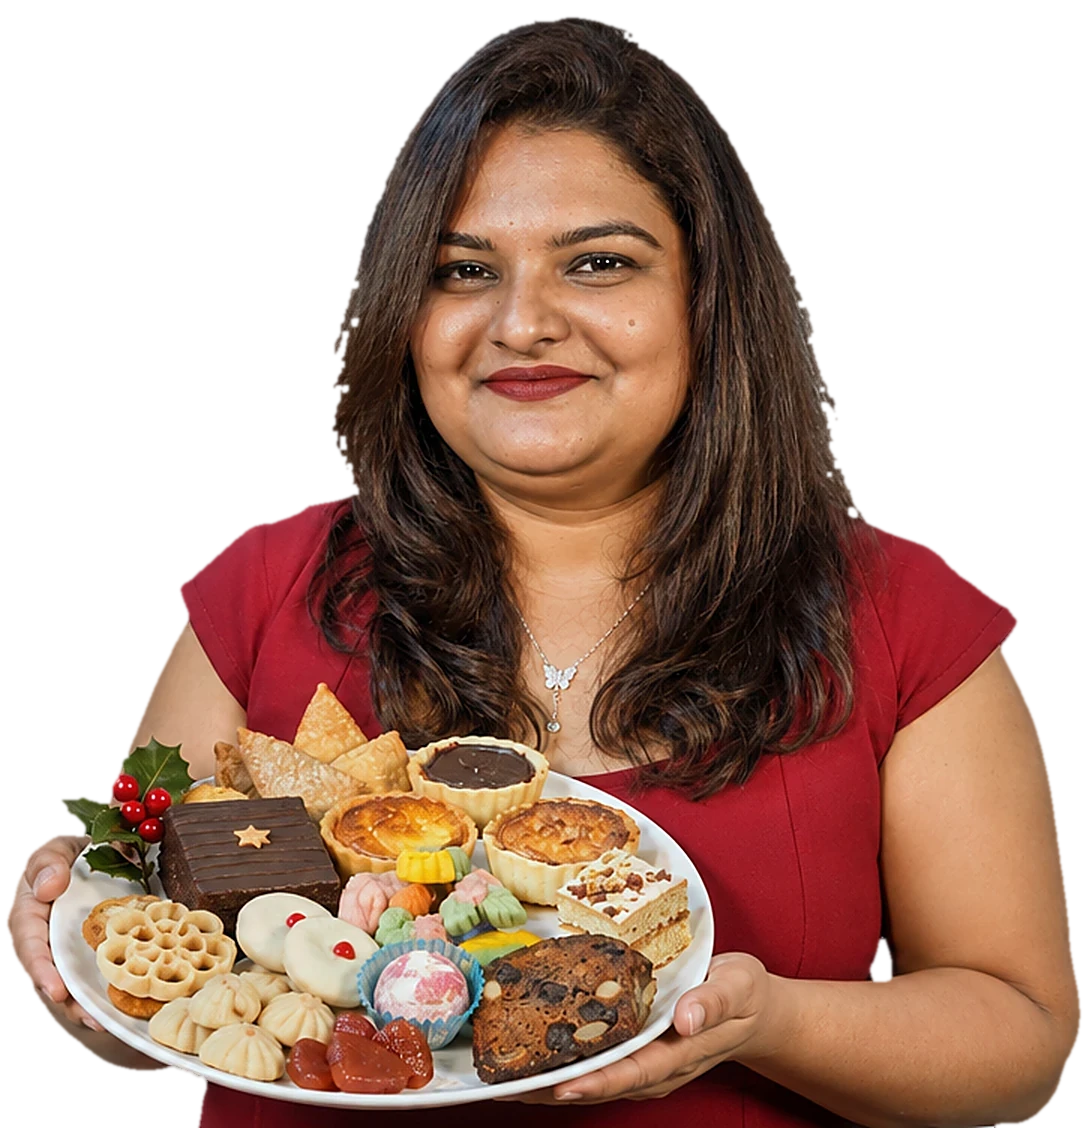
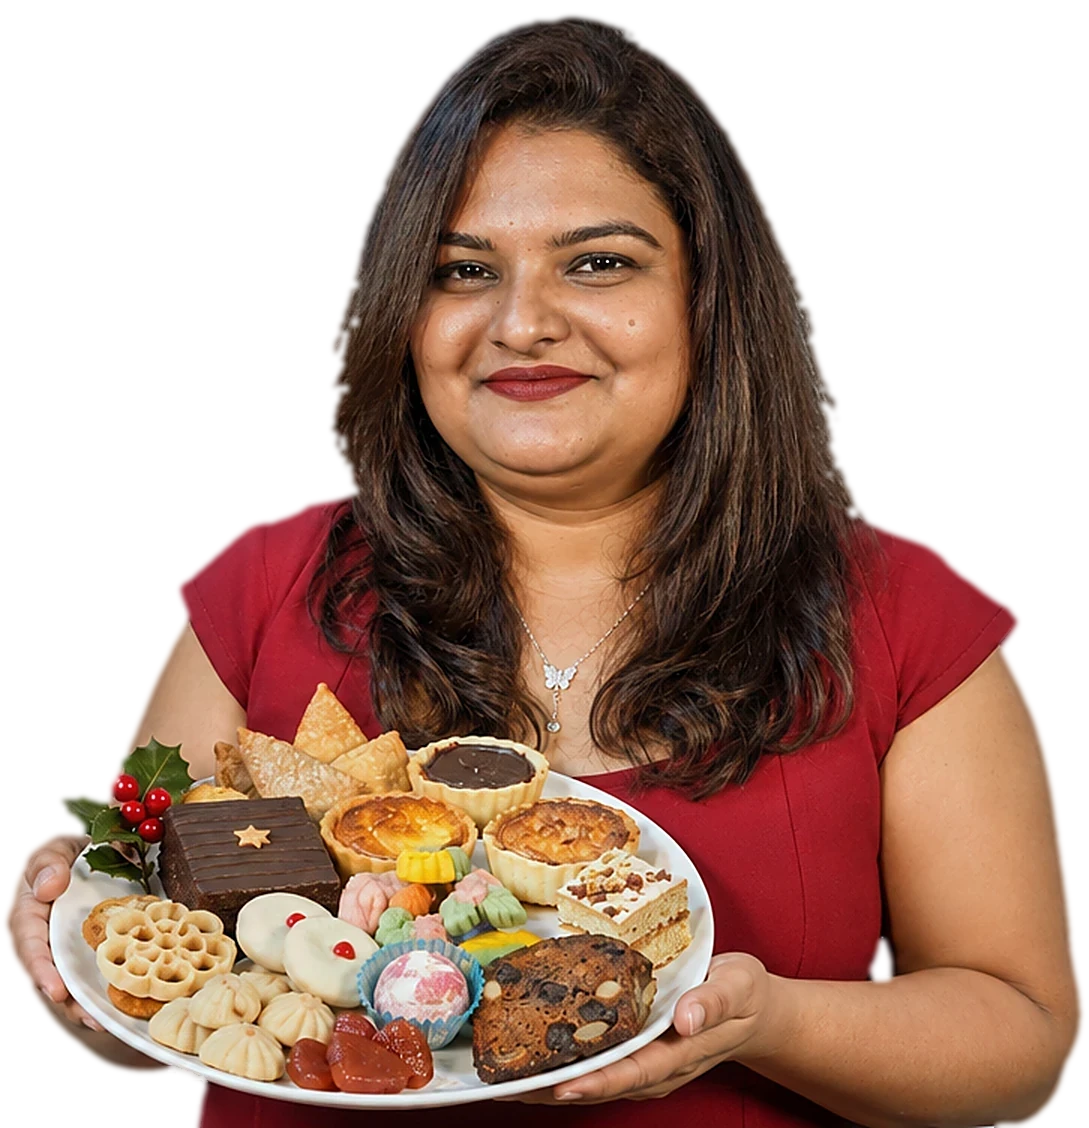
Softer edges on hero cutout

diff --git a/index.html b/index.html
@@ -15,7 +15,7 @@
 <meta name="theme-color" content="#6E1423">
 <link rel="icon" type="image/png" href="img/icon.png">
 <link rel="apple-touch-icon" href="img/icon.png">
-<link rel="preload" as="image" href="img/rebecca_plate.webp?v=3bea4033" fetchpriority="high">
+<link rel="preload" as="image" href="img/rebecca_plate.webp?v=6288cfff" fetchpriority="high">
 <link rel="preconnect" href="https://fonts.googleapis.com">
 <link rel="preconnect" href="https://fonts.gstatic.com" crossorigin>
 <link rel="stylesheet" href="https://fonts.googleapis.com/css2?family=Inter:wght@400;500;600;700;800&family=Playfair+Display:ital,wght@0,600;0,700;0,800;1,700;1,800&display=swap">
@@ -439,7 +439,7 @@ footer small{opacity:.75}
    <svg class="xh-flake" style="right:6%;top:12%;width:22px;color:#D9B77E" viewBox="0 0 24 24"><g stroke="currentColor" stroke-width="1.8" stroke-linecap="round"><path d="M12 2v20M3.3 7l17.4 10M3.3 17L20.7 7"/></g></svg>
    <svg class="xh-flake" style="left:30%;top:6%;width:16px" viewBox="0 0 24 24"><path d="M12 0l2.4 9.6L24 12l-9.6 2.4L12 24l-2.4-9.6L0 12l9.6-2.4z" fill="#D9B77E"/></svg>
    <svg class="xh-flake" style="right:24%;top:4%;width:12px" viewBox="0 0 24 24"><path d="M12 0l2.4 9.6L24 12l-9.6 2.4L12 24l-2.4-9.6L0 12l9.6-2.4z" fill="#F4EFE6"/></svg>
-   <img class="xh-chef" src="img/rebecca_plate.webp?v=3bea4033" width="720" height="752" fetchpriority="high" alt="Chef Rebecca Corda holding a plate of her Christmas sweets">
+   <img class="xh-chef" src="img/rebecca_plate.webp?v=6288cfff" width="720" height="752" fetchpriority="high" alt="Chef Rebecca Corda holding a plate of her Christmas sweets">
    <svg class="xh-holly" style="right:-1%;top:34%;width:84px;transform:rotate(28deg)" viewBox="0 0 100 70" aria-hidden="true"><path d="M50 40 C38 18 18 22 6 10 C14 16 20 6 28 12 C30 2 40 8 44 2 C46 18 58 30 50 40Z" fill="#2E6B4F"/><path d="M50 40 C62 18 82 22 94 10 C86 16 80 6 72 12 C70 2 60 8 56 2 C54 18 42 30 50 40Z" fill="#3F8763"/><circle cx="43" cy="44" r="7" fill="#C8202F"/><circle cx="57" cy="45" r="7" fill="#B3122B"/><circle cx="50" cy="54" r="7" fill="#D4283A"/><circle cx="41" cy="42" r="2" fill="#fff" opacity=".6"/></svg>
    <div class="xh-tag"><span class="xh-ic"><svg width="14" height="14" viewBox="0 0 24 24" fill="none" stroke="#F4EFE6" stroke-width="2" stroke-linecap="round"><path d="M6 13.9A4 4 0 0 1 7 6a5 5 0 0 1 10 0 4 4 0 0 1 1 7.9V21H6z"/><path d="M6 17h12"/></svg></span><span><b>Chef Rebecca Corda</b>Made fresh in her kitchen</span></div>
   </div>
@@ -550,7 +550,7 @@ footer small{opacity:.75}
 <script>
 (function(){
 "use strict";
-var IMG = {"bauble": "img/bauble.webp?v=84ac5e2a", "choctarts": "img/choctarts.webp?v=a0496dfa", "coconutice": "img/coconutice.webp?v=825f6e0c", "coconuttarts": "img/coconuttarts.webp?v=e6c4a260", "cookies_mix": "img/cookies_mix.webp?v=e3e3556e", "cookies_reindeer": "img/cookies_reindeer.webp?v=43ca4ce7", "cookies_tree": "img/cookies_tree.webp?v=f282027b", "guava": "img/guava.webp?v=b4ee02db", "kulkuls": "img/kulkuls.webp?v=13d46411", "logo_color": "img/logo_color.webp?v=d792e80c", "logo_color_whitetext": "img/logo_color_whitetext.webp?v=3e7745c7", "marzipan": "img/marzipan.webp?v=7d690b72", "milkcream": "img/milkcream.webp?v=3c635063", "nevries_rose": "img/nevries_rose.webp?v=d3a0a4ca", "reindeer": "img/reindeer.webp?v=dfce2591", "rumsquare": "img/rumsquare.webp?v=8fed53cc", "sweets_mix": "img/sweets_mix.webp?v=5456ed5c", "bow": "img/bow.webp?v=3344814b", "s_neureos": "img/s_neureos.webp?v=f58e66d0", "s_guava": "img/s_guava.webp?v=69e7bc7c", "p_marzipan": "img/p_marzipan.webp?v=b910f84f", "p_snowflake": "img/p_snowflake.webp?v=baaf44f7", "p_kulkul": "img/p_kulkul.webp?v=a521b335", "s_shank": "img/s_shank.webp?v=4e01757c", "p_cice": "img/p_cice.webp?v=47568056", "p_nankhatai": "img/p_nankhatai.webp?v=35e5ee82", "s_rose": "img/s_rose.webp?v=e475da9b", "p_milkcream": "img/p_milkcream.webp?v=b4cf9032", "p_santa": "img/p_santa.webp?v=351365d1", "p_guava": "img/p_guava.webp?v=48c10615", "p_bombs": "img/p_bombs.webp?v=f5dc288d", "p_neureos": "img/p_neureos.webp?v=83caf044", "s_kulkul": "img/s_kulkul.webp?v=214fe2b4", "s_bombs": "img/s_bombs.webp?v=3568cfed", "s_marzipan": "img/s_marzipan.webp?v=096c3cde", "p_datewal": "img/p_datewal.webp?v=e6025672", "s_datewal": "img/s_datewal.webp?v=48c4ca97", "rebecca_plate": "img/rebecca_plate.webp?v=3bea4033", "s_baath": "img/s_baath.webp?v=5499f3bf", "p_baath": "img/p_baath.webp?v=b31ac2b7", "p_shank": "img/p_shank.webp?v=be270e27", "p_macarons": "img/p_macarons.webp?v=c8511ffd", "p_reindeer": "img/p_reindeer.webp?v=a6073b8f", "chef_smile": "img/chef_smile.webp?v=cdef43e0", "p_tree": "img/p_tree.webp?v=8b1e6e91", "p_ginger": "img/p_ginger.webp?v=af2b651a", "s_cice": "img/s_cice.webp?v=ed635c3d", "p_rumcake": "img/p_rumcake.webp?v=50a5fcb5", "p_rose": "img/p_rose.webp?v=c6c130df", "chef_table": "img/chef_table.webp?v=efad1b4a", "p_cotart": "img/p_cotart.webp?v=0e6318df", "chef_face": "img/chef_face.webp?v=04d43a50", "s_milkcream": "img/s_milkcream.webp?v=458933fc", "s_nankhatai": "img/s_nankhatai.webp?v=1387287b"};
+var IMG = {"bauble": "img/bauble.webp?v=84ac5e2a", "choctarts": "img/choctarts.webp?v=a0496dfa", "coconutice": "img/coconutice.webp?v=825f6e0c", "coconuttarts": "img/coconuttarts.webp?v=e6c4a260", "cookies_mix": "img/cookies_mix.webp?v=e3e3556e", "cookies_reindeer": "img/cookies_reindeer.webp?v=43ca4ce7", "cookies_tree": "img/cookies_tree.webp?v=f282027b", "guava": "img/guava.webp?v=b4ee02db", "kulkuls": "img/kulkuls.webp?v=13d46411", "logo_color": "img/logo_color.webp?v=d792e80c", "logo_color_whitetext": "img/logo_color_whitetext.webp?v=3e7745c7", "marzipan": "img/marzipan.webp?v=7d690b72", "milkcream": "img/milkcream.webp?v=3c635063", "nevries_rose": "img/nevries_rose.webp?v=d3a0a4ca", "reindeer": "img/reindeer.webp?v=dfce2591", "rumsquare": "img/rumsquare.webp?v=8fed53cc", "sweets_mix": "img/sweets_mix.webp?v=5456ed5c", "bow": "img/bow.webp?v=3344814b", "s_neureos": "img/s_neureos.webp?v=f58e66d0", "s_guava": "img/s_guava.webp?v=69e7bc7c", "p_marzipan": "img/p_marzipan.webp?v=b910f84f", "p_snowflake": "img/p_snowflake.webp?v=baaf44f7", "p_kulkul": "img/p_kulkul.webp?v=a521b335", "s_shank": "img/s_shank.webp?v=4e01757c", "p_cice": "img/p_cice.webp?v=47568056", "p_nankhatai": "img/p_nankhatai.webp?v=35e5ee82", "s_rose": "img/s_rose.webp?v=e475da9b", "p_milkcream": "img/p_milkcream.webp?v=b4cf9032", "p_santa": "img/p_santa.webp?v=351365d1", "p_guava": "img/p_guava.webp?v=48c10615", "p_bombs": "img/p_bombs.webp?v=f5dc288d", "p_neureos": "img/p_neureos.webp?v=83caf044", "s_kulkul": "img/s_kulkul.webp?v=214fe2b4", "s_bombs": "img/s_bombs.webp?v=3568cfed", "s_marzipan": "img/s_marzipan.webp?v=096c3cde", "p_datewal": "img/p_datewal.webp?v=e6025672", "s_datewal": "img/s_datewal.webp?v=48c4ca97", "rebecca_plate": "img/rebecca_plate.webp?v=6288cfff", "s_baath": "img/s_baath.webp?v=5499f3bf", "p_baath": "img/p_baath.webp?v=b31ac2b7", "p_shank": "img/p_shank.webp?v=be270e27", "p_macarons": "img/p_macarons.webp?v=c8511ffd", "p_reindeer": "img/p_reindeer.webp?v=a6073b8f", "chef_smile": "img/chef_smile.webp?v=cdef43e0", "p_tree": "img/p_tree.webp?v=8b1e6e91", "p_ginger": "img/p_ginger.webp?v=af2b651a", "s_cice": "img/s_cice.webp?v=ed635c3d", "p_rumcake": "img/p_rumcake.webp?v=50a5fcb5", "p_rose": "img/p_rose.webp?v=c6c130df", "chef_table": "img/chef_table.webp?v=efad1b4a", "p_cotart": "img/p_cotart.webp?v=0e6318df", "chef_face": "img/chef_face.webp?v=04d43a50", "s_milkcream": "img/s_milkcream.webp?v=458933fc", "s_nankhatai": "img/s_nankhatai.webp?v=1387287b"};
 var WA = "918087800535";
 var CFG = {closeAt:"2026-12-13T23:59:59+05:30", firstDeliveryDate:"2026-12-20", lastDeliveryDate:"2026-12-24", upiId:"rebeccacorda14-3@okaxis", upiName:"Rebecca Corda", soldOut:[], fullDates:[], pickupInfo:"Pickup address and timings will be shared on WhatsApp."};
 var API = "https://script.google.com/macros/s/AKfycbyPiyZia6992mpGfEQj4Ehb10d-bnhDlb0fQqJqQ_0nignIbXRO0fxc4UVapH_EdLeK/exec";
